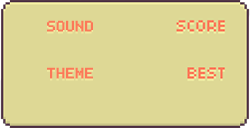
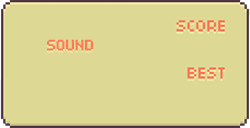
Update: Cập nhật logic khiên

Changed region(s): [[0.168, 0.3125, 0.392, 0.4062], [0.168, 0.1562, 0.392, 0.25], [0.168, 0.5312, 0.392, 0.625]]

diff --git a/Game_LTNC/Bird.cpp b/Game_LTNC/Bird.cpp
@@ -9,7 +9,7 @@ bool bird::init()
     ahead = 0;
     angle = 0;
     string shield_path = "assets/image/shield.png";
-    shield.Load(shield_path.c_str(), 0.2);
+    shield.Load(shield_path.c_str(), 0.15);
     if (isNULL())
     {
         if (Load(bird_path.c_str(), 0.75))
@@ -58,7 +58,7 @@ void bird::render()
 
 void bird::renderShield()
 {
-    shield.Render(posBird.x - 30, posBird.y - 30);  
+    shield.Render(posBird.x - 17, posBird.y - 22);  
 }
 
 
@@ -138,6 +138,8 @@ void bird::update(int pipeWidth, int pipeHeight)
 void bird::updateThreat(int x, int y)
 {
     //check va cham threat
+    if (!isInvincible())
+    {
         if (!(posBird.x + getWidth() < x ||
             posBird.x > x + THREAT_WIDTH * 0.2 ||
             posBird.y + getHeight() < y ||
@@ -146,6 +148,7 @@ void bird::updateThreat(int x, int y)
         {
             die = true;
         }
+    }
 }
 
 void bird::enableShield()

diff --git a/Game_LTNC/Item.cpp b/Game_LTNC/Item.cpp
@@ -2,17 +2,17 @@
 
 bool Item::init()
 {
-    //posItem.getPos(rand() % (SCREEN_WIDTH - 50), rand() % (SCREEN_HEIGHT - LAND_HEIGHT - 50));
+    posItem.getPos(650, rand() % (SCREEN_HEIGHT - LAND_HEIGHT - 50));
     bird b;
-    if (!b.getInvicible())
+    /*if (!b.getInvicible())
     {
         posItem.x = 60;
         posItem.y = 0;
-    }
+    }*/
     active = true;
     std::string item_path = "assets/image/shield.png";  
 
-    return Load(item_path.c_str(), 0.2);
+    return Load(item_path.c_str(), 0.15);
 }
 
 void Item::Free()
@@ -31,8 +31,8 @@ void Item::render()
 
 void Item::update()
 {
-    posItem.y++;
-    if (score%30 == 0) posItem.y = -120;
+    posItem.x -= 2;
+    //if (score%30 == 0) posItem.y = -120;
 }
 
 bool Item::checkCollision(SDL_Rect birdRect)

diff --git a/Game_LTNC/main.cpp b/Game_LTNC/main.cpp
@@ -116,6 +116,7 @@ int main(int argc, char* argv[]) {
                     g.bird.enableShield(); 
                 }
                 if (g2.score > 20) g.threat.update();
+                if (g2.score%10 == 0) g.item.init();
                 g.land.update();
                 g.pause();
             }

diff --git a/Game_LTNC/Game.cpp b/Game_LTNC/Game.cpp
@@ -147,12 +147,7 @@ void game::renderPauseTab()
 
 void game::nextButton()
 {
-	gTexture image;
-	image.Load("assets/image/nextRight.png", 1);
-	image.Render(149, 322);
-	image.Load("assets/image/nextLeft.png", 1);
-	image.Render(88, 322);
-	image.free();
+	
 }
 
 void game::renderGameOver()

diff --git a/Game_LTNC/Sound.h b/Game_LTNC/Sound.h
@@ -29,6 +29,6 @@ private:
     SDL_Rect Mute;
     SDL_Rect Active;
     const short int POS_X = 107;
-    const short int POS_Y = 267;
+    const short int POS_Y = 300;
     bool isPlay = 0;
 };
